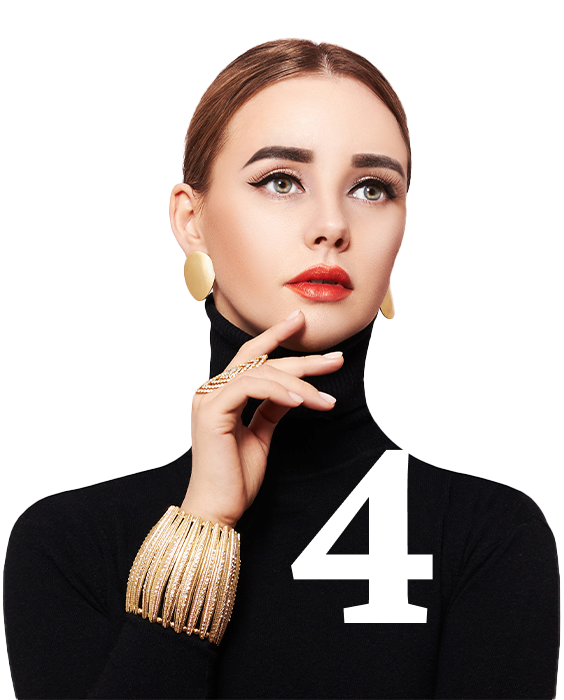
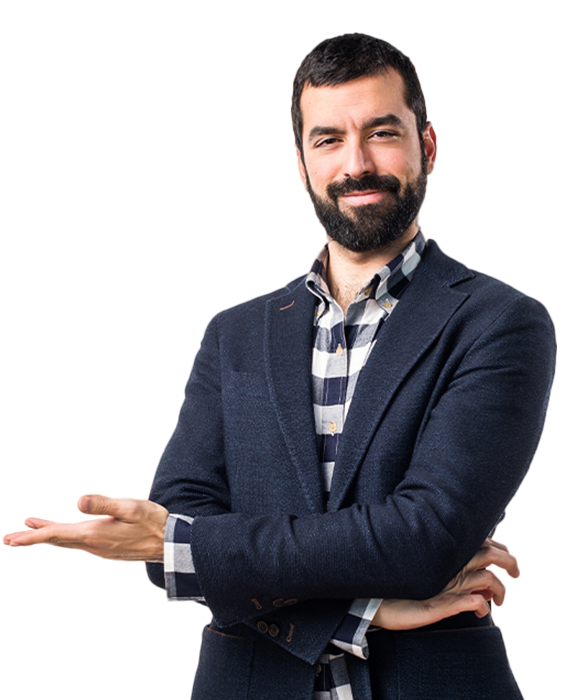
Adjust styles and photos Hero section

diff --git a/index.html b/index.html
@@ -11,87 +11,89 @@
 	<body>
 		
 		<header class="header">
-			<div class="header-content">
-				<a href="#" class="header-brand">
-					<div class="header-symbol">
-						<svg
-							xmlns="http://www.w3.org/2000/svg"
-							fill="none"
-							viewBox="0 0 58 56"
-						>
-							<path
-								d="M57.9 40.6a5.3 5.3 0 0 1-5.2 4.3H34.1c-.4 0-.5 0-.3.4l4.6 7.2c.2.2.4.3.7.3h3.6a1.2 1.2 0 0 1 0 2.3H15.2a1.2 1.2 0 0 1 0-2.3c1-.2 3.9.4 4.4-.5 1.4-2.4 3.3-4.9 4.6-7.3-6-.3-12.2 0-18.3-.1-3.3 0-4.8-1.1-5.9-4.3V9.1C.5 6.8 2.6 5 5 5h28c.8 0 1.3.5 1.3 1.2s-.5 1.2-1.4 1.2c-9.5.2-19.2-.4-28.7.2-1.2.4-1.8 1.4-1.9 2.7.2 10.1-.4 20.4.2 30.5.5 1.2 1.5 1.7 2.7 1.8h47c1.5 0 2.6-.4 3.1-1.8.7-6 0-12.2.3-18.3-.1-1.5 1.6-1.8 2.3-.7v19ZM35.7 52.7c-1.5-2.6-3.2-5-4.8-7.6-.6-.6-2.3 0-3.2-.3-.4 0-.6.2-.8.5-1.5 2.5-3.4 4.9-4.7 7.4h13.5ZM58 16.4c-.6 1.7-2 2.9-3.8 2.8h-6.4c-.4 0-.7.1-1 .4L43 23.2c-.8.7-2.1.2-2-1V20c0-.5-.2-.7-.8-.7-1.7 0-3-.7-3.7-2.2-.8-3.9 0-8-.3-12 0-2.6 2-4 4-4 18.3 1 18-4.8 17.6 15.4Zm-14.5 2.8.2.1c1-.9 1.9-2.5 3.4-2.5h7c1 0 1.7-.8 1.6-1.7V5.3c0-1.4-.4-1.9-1.9-1.9H43c-1.4.2-4.3-.7-4.3 1.5v10.5c.3 3.3 5.4-.8 4.7 3.8ZM28.8 36.7h-7.1c-.8 0-1.8-.2-1.8-1.1-.4-4.2.4-8.8 4.4-10.9.4-.2.5-.3.1-.7-3.8-3.3-1.7-10 3.3-10.8 6-1.3 10 6.8 5.5 10.8-.3.3-.3.4 0 .7 4 2.1 4.9 6.2 4.6 10.4 0 1.1-.4 1.6-1.6 1.6h-7.4Zm0-2.4h6c.4 0 .6-.1.6-.6l-.1-2.4c-1.9-8.5-14-6.3-13 2.3 0 .5.1.7.7.7h5.8Zm-4-14.8c0 5.2 8 5.2 8 0s-7.9-5.3-8 0Z"
-							/>
-						</svg>
-					</div>
-					<div class="header-logo">
-						<h1 class="header-title">Asesorias<br />Personalizadas</h1>
-						<h2 class="header-tagline">Professional Growth</h2>
-					</div>
-				</a>
-				<nav class="header-nav" id="menuMobile">
-					<ul class="header-ul">
-						<li class="header-li">
-							<a class="header-a" href="#features" title="Características"
-								>Características</a
+			<div class="wrapper">
+				<div class="header-content">
+					<a href="#" class="header-brand">
+						<div class="header-symbol">
+							<svg
+								xmlns="http://www.w3.org/2000/svg"
+								fill="none"
+								viewBox="0 0 58 56"
 							>
+								<path
+									d="M57.9 40.6a5.3 5.3 0 0 1-5.2 4.3H34.1c-.4 0-.5 0-.3.4l4.6 7.2c.2.2.4.3.7.3h3.6a1.2 1.2 0 0 1 0 2.3H15.2a1.2 1.2 0 0 1 0-2.3c1-.2 3.9.4 4.4-.5 1.4-2.4 3.3-4.9 4.6-7.3-6-.3-12.2 0-18.3-.1-3.3 0-4.8-1.1-5.9-4.3V9.1C.5 6.8 2.6 5 5 5h28c.8 0 1.3.5 1.3 1.2s-.5 1.2-1.4 1.2c-9.5.2-19.2-.4-28.7.2-1.2.4-1.8 1.4-1.9 2.7.2 10.1-.4 20.4.2 30.5.5 1.2 1.5 1.7 2.7 1.8h47c1.5 0 2.6-.4 3.1-1.8.7-6 0-12.2.3-18.3-.1-1.5 1.6-1.8 2.3-.7v19ZM35.7 52.7c-1.5-2.6-3.2-5-4.8-7.6-.6-.6-2.3 0-3.2-.3-.4 0-.6.2-.8.5-1.5 2.5-3.4 4.9-4.7 7.4h13.5ZM58 16.4c-.6 1.7-2 2.9-3.8 2.8h-6.4c-.4 0-.7.1-1 .4L43 23.2c-.8.7-2.1.2-2-1V20c0-.5-.2-.7-.8-.7-1.7 0-3-.7-3.7-2.2-.8-3.9 0-8-.3-12 0-2.6 2-4 4-4 18.3 1 18-4.8 17.6 15.4Zm-14.5 2.8.2.1c1-.9 1.9-2.5 3.4-2.5h7c1 0 1.7-.8 1.6-1.7V5.3c0-1.4-.4-1.9-1.9-1.9H43c-1.4.2-4.3-.7-4.3 1.5v10.5c.3 3.3 5.4-.8 4.7 3.8ZM28.8 36.7h-7.1c-.8 0-1.8-.2-1.8-1.1-.4-4.2.4-8.8 4.4-10.9.4-.2.5-.3.1-.7-3.8-3.3-1.7-10 3.3-10.8 6-1.3 10 6.8 5.5 10.8-.3.3-.3.4 0 .7 4 2.1 4.9 6.2 4.6 10.4 0 1.1-.4 1.6-1.6 1.6h-7.4Zm0-2.4h6c.4 0 .6-.1.6-.6l-.1-2.4c-1.9-8.5-14-6.3-13 2.3 0 .5.1.7.7.7h5.8Zm-4-14.8c0 5.2 8 5.2 8 0s-7.9-5.3-8 0Z"
+								/>
+							</svg>
+						</div>
+						<div class="header-logo">
+							<h1 class="header-title">Asesorias<br />Personalizadas</h1>
+							<h2 class="header-tagline">Professional Growth</h2>
+						</div>
+					</a>
+					<nav class="header-nav" id="menuMobile">
+						<ul class="header-ul">
+							<li class="header-li">
+								<a class="header-a" href="#features" title="Características"
+									>Características</a
+								>
+							</li>
+							<li class="header-li">
+								<a class="header-a" href="#advisories" title="Asesorias"
+									>Asesorías</a
+								>
+							</li>
+							<li class="header-li">
+								<a class="header-a" href="#about" title="Coca Sevilla"
+									>Coca Sevilla</a
+								>
+							</li>
+							<li class="header-li">
+								<a class="header-a" href="#testimonials" title="Testimoniales"
+									>Testimoniales</a
+								>
+							</li>
+						</ul>
+					</nav>
+					<ul class="header-side">
+						<li class="header-li__side">
+							<a class="header-link" href="#">
+								<svg
+									class="header-svg"
+									width="24"
+									height="24"
+									viewBox="0 0 24 24"
+									fill="none"
+									xmlns="http://www.w3.org/2000/svg"
+								>
+									<g clip-path="url(#clip0_423_516)">
+										<path
+											d="M20.4015 3.48907C19.3012 2.37859 17.9909 1.49819 16.547 0.899181C15.103 0.300173 13.5543 -0.00546641 11.991 7.39958e-05C5.4405 7.39958e-05 0.102 5.33707 0.096 11.8891C0.096 13.9876 0.645 16.0291 1.6815 17.8366L0 24.0001L6.306 22.3471C8.05051 23.2964 10.0049 23.7941 11.991 23.7946H11.997C18.549 23.7946 23.886 18.4576 23.892 11.8996C23.8935 10.3366 23.5857 8.78885 22.9864 7.34539C22.3871 5.90193 21.5096 4.59132 20.4015 3.48907ZM11.991 21.7816C10.2195 21.7822 8.48055 21.3055 6.957 20.4016L6.597 20.1856L2.856 21.1666L3.855 17.5171L3.621 17.1406C2.63071 15.5661 2.10697 13.7431 2.1105 11.8831C2.1105 6.44407 6.546 2.00707 11.997 2.00707C13.2956 2.00474 14.5818 2.25949 15.7815 2.75661C16.9812 3.25374 18.0706 3.98341 18.987 4.90357C19.9065 5.82015 20.6355 6.90971 21.1319 8.10942C21.6282 9.30913 21.8822 10.5952 21.879 11.8936C21.873 17.3521 17.4375 21.7816 11.991 21.7816ZM17.4135 14.3806C17.118 14.2321 15.6585 13.5136 15.384 13.4116C15.111 13.3141 14.9115 13.2631 14.7165 13.5601C14.517 13.8556 13.947 14.5291 13.776 14.7226C13.605 14.9221 13.428 14.9446 13.131 14.7976C12.8355 14.6476 11.877 14.3356 10.743 13.3201C9.858 12.5326 9.2655 11.5576 9.0885 11.2621C8.9175 10.9651 9.072 10.8061 9.2205 10.6576C9.351 10.5256 9.516 10.3096 9.6645 10.1386C9.8145 9.96757 9.864 9.84157 9.9615 9.64357C10.059 9.44257 10.0125 9.27157 9.939 9.12307C9.864 8.97457 9.2715 7.50907 9.021 6.91807C8.781 6.33457 8.5365 6.41557 8.3535 6.40807C8.1825 6.39757 7.983 6.39757 7.7835 6.39757C7.63285 6.40132 7.48459 6.43616 7.34804 6.49992C7.21149 6.56368 7.08959 6.65497 6.99 6.76807C6.717 7.06507 5.9535 7.78357 5.9535 9.24907C5.9535 10.7146 7.0185 12.1231 7.1685 12.3226C7.3155 12.5221 9.2595 15.5206 12.243 16.8106C12.948 17.1181 13.503 17.2996 13.9365 17.4376C14.649 17.6656 15.2925 17.6311 15.8055 17.5576C16.3755 17.4706 17.562 16.8376 17.8125 16.1431C18.0585 15.4471 18.0585 14.8531 17.9835 14.7286C17.91 14.6026 17.7105 14.5291 17.4135 14.3806Z"
+										/>
+									</g></svg
+								>Información
+							</a>
 						</li>
-						<li class="header-li">
-							<a class="header-a" href="#advisories" title="Asesorias"
-								>Asesorías</a
-							>
-						</li>
-						<li class="header-li">
-							<a class="header-a" href="#about" title="Coca Sevilla"
-								>Coca Sevilla</a
-							>
-						</li>
-						<li class="header-li">
-							<a class="header-a" href="#testimonials" title="Testimoniales"
-								>Testimoniales</a
-							>
+						<li class="header-li__side">
+							<button class="header-button" id="menuButton">
+								<svg
+									xmlns="http://www.w3.org/2000/svg"
+									width="24"
+									height="24"
+									viewBox="0 0 24 24"
+									fill="none"
+									stroke="currentColor"
+									stroke-width="2"
+									stroke-linecap="round"
+									stroke-linejoin="round"
+								>
+									<line x1="3" y1="12" x2="21" y2="12" />
+									<line x1="3" y1="6" x2="21" y2="6" />
+									<line x1="3" y1="18" x2="21" y2="18" />
+								</svg>
+							</button>
 						</li>
 					</ul>
-				</nav>
-				<ul class="header-side">
-					<li class="header-li__side">
-						<a class="header-link" href="#">
-							<svg
-								class="header-svg"
-								width="24"
-								height="24"
-								viewBox="0 0 24 24"
-								fill="none"
-								xmlns="http://www.w3.org/2000/svg"
-							>
-								<g clip-path="url(#clip0_423_516)">
-									<path
-										d="M20.4015 3.48907C19.3012 2.37859 17.9909 1.49819 16.547 0.899181C15.103 0.300173 13.5543 -0.00546641 11.991 7.39958e-05C5.4405 7.39958e-05 0.102 5.33707 0.096 11.8891C0.096 13.9876 0.645 16.0291 1.6815 17.8366L0 24.0001L6.306 22.3471C8.05051 23.2964 10.0049 23.7941 11.991 23.7946H11.997C18.549 23.7946 23.886 18.4576 23.892 11.8996C23.8935 10.3366 23.5857 8.78885 22.9864 7.34539C22.3871 5.90193 21.5096 4.59132 20.4015 3.48907ZM11.991 21.7816C10.2195 21.7822 8.48055 21.3055 6.957 20.4016L6.597 20.1856L2.856 21.1666L3.855 17.5171L3.621 17.1406C2.63071 15.5661 2.10697 13.7431 2.1105 11.8831C2.1105 6.44407 6.546 2.00707 11.997 2.00707C13.2956 2.00474 14.5818 2.25949 15.7815 2.75661C16.9812 3.25374 18.0706 3.98341 18.987 4.90357C19.9065 5.82015 20.6355 6.90971 21.1319 8.10942C21.6282 9.30913 21.8822 10.5952 21.879 11.8936C21.873 17.3521 17.4375 21.7816 11.991 21.7816ZM17.4135 14.3806C17.118 14.2321 15.6585 13.5136 15.384 13.4116C15.111 13.3141 14.9115 13.2631 14.7165 13.5601C14.517 13.8556 13.947 14.5291 13.776 14.7226C13.605 14.9221 13.428 14.9446 13.131 14.7976C12.8355 14.6476 11.877 14.3356 10.743 13.3201C9.858 12.5326 9.2655 11.5576 9.0885 11.2621C8.9175 10.9651 9.072 10.8061 9.2205 10.6576C9.351 10.5256 9.516 10.3096 9.6645 10.1386C9.8145 9.96757 9.864 9.84157 9.9615 9.64357C10.059 9.44257 10.0125 9.27157 9.939 9.12307C9.864 8.97457 9.2715 7.50907 9.021 6.91807C8.781 6.33457 8.5365 6.41557 8.3535 6.40807C8.1825 6.39757 7.983 6.39757 7.7835 6.39757C7.63285 6.40132 7.48459 6.43616 7.34804 6.49992C7.21149 6.56368 7.08959 6.65497 6.99 6.76807C6.717 7.06507 5.9535 7.78357 5.9535 9.24907C5.9535 10.7146 7.0185 12.1231 7.1685 12.3226C7.3155 12.5221 9.2595 15.5206 12.243 16.8106C12.948 17.1181 13.503 17.2996 13.9365 17.4376C14.649 17.6656 15.2925 17.6311 15.8055 17.5576C16.3755 17.4706 17.562 16.8376 17.8125 16.1431C18.0585 15.4471 18.0585 14.8531 17.9835 14.7286C17.91 14.6026 17.7105 14.5291 17.4135 14.3806Z"
-									/>
-								</g></svg
-							>Información
-						</a>
-					</li>
-					<li class="header-li__side">
-						<button class="header-button" id="menuButton">
-							<svg
-								xmlns="http://www.w3.org/2000/svg"
-								width="24"
-								height="24"
-								viewBox="0 0 24 24"
-								fill="none"
-								stroke="currentColor"
-								stroke-width="2"
-								stroke-linecap="round"
-								stroke-linejoin="round"
-							>
-								<line x1="3" y1="12" x2="21" y2="12" />
-								<line x1="3" y1="6" x2="21" y2="6" />
-								<line x1="3" y1="18" x2="21" y2="18" />
-							</svg>
-						</button>
-					</li>
-				</ul>
+				</div>
 			</div>
 		</header>
 
@@ -99,7 +101,7 @@
 			<section class="hero">
 				<div class="wrapper">
 					<div class="hero-content">
-						<div class="hero-info">
+						<!-- <div class="hero-info">
 							<span class="hero-tag">Asesorías Online</span>
 							<div class="hero-titles">
 								<h2 class="hero-title active">
@@ -124,7 +126,7 @@
 								cualquier parte del mundo.
 							</p>
 							<a class="hero-link" href="#advisories"> Conoce más </a>
-						</div>
+						</div> -->
 						<div class="hero-images">
 							<img class="hero-image active" src="./assets/hero/hero-1.png" alt="Fotografía de Mujer" loading="lazy"/>
 							<img class="hero-image" src="./assets/hero/hero-2.png" alt="Fotografía de Mujer" loading="lazy"/>

diff --git a/js/app.js b/js/app.js
@@ -5,13 +5,10 @@ const menuMobile = document.getElementById('menuMobile');
 
 menuButton.addEventListener('click', () => { menuMobile.classList.toggle('menu-show') });
 
-document.querySelectorAll('.header-a').forEach( (n) => n.addEventListener('click', () => { menuMobile?.classList.remove('menu-show') }) );
-
- */
-
+document.querySelectorAll('.header-a').forEach( (n) => n.addEventListener('click', () => { menuMobile?.classList.remove('menu-show') }) ); */
 var acc = document.getElementsByClassName('faqs-question');
-for (var i = 0; i < acc.length; i++) {
-  acc[i].addEventListener('click', function () {
+for (var _i = 0; _i < acc.length; _i++) {
+  acc[_i].addEventListener('click', function () {
     this.classList.toggle('faqs-question__active');
     this.lastElementChild.classList.toggle('faqs-icon__active');
     var panel = this.nextElementSibling;
@@ -22,25 +19,18 @@ for (var i = 0; i < acc.length; i++) {
     }
   });
 }
-
-
-const heroTitles = document.querySelectorAll('.hero-title');
-const heroImages = document.querySelectorAll('.hero-image');
-
-
-
+var heroTitles = document.querySelectorAll('.hero-title');
+var heroImages = document.querySelectorAll('.hero-image');
 setInterval(function () {
-	heroTitles[i].classList.remove('active');
-	heroImages[i].classList.remove('active');
-	i++;
-
-	if (i >= heroTitles.length) {
-		i = 0;
-	}
-	if (i >= heroImages.length) {
-		i = 0;
-	}
-
-	heroTitles[i].classList.add('active');
-	heroImages[i].classList.add('active');
+  heroTitles[i].classList.remove('active');
+  heroImages[i].classList.remove('active');
+  i++;
+  if (i >= heroTitles.length) {
+    i = 0;
+  }
+  if (i >= heroImages.length) {
+    i = 0;
+  }
+  heroTitles[i].classList.add('active');
+  heroImages[i].classList.add('active');
 }, 3000);

diff --git a/css/app.css b/css/app.css
@@ -194,7 +194,7 @@ body {
           box-shadow: 0 0 1em rgba(0, 0, 0, 0.1);
 }
 .header-content {
-  padding: 1em 2em;
+  padding: 1em;
   display: -webkit-box;
   display: -ms-flexbox;
   display: flex;
@@ -208,11 +208,6 @@ body {
   -webkit-box-align: center;
       -ms-flex-align: center;
           align-items: center;
-}
-@media screen and (max-width: 1920px) {
-  .header-content {
-    font-size: 1.2rem;
-  }
 }
 @media screen and (max-width: 1440px) {
   .header-content {
@@ -610,10 +605,11 @@ body {
 .hero-image {
   position: absolute;
   height: 100%;
+  right: 48px;
   -o-object-fit: contain;
      object-fit: contain;
-  -o-object-position: center top;
-     object-position: center top;
+  -o-object-position: center center;
+     object-position: center center;
   opacity: 0;
   -webkit-transition: opacity 1s ease;
   transition: opacity 1s ease;

diff --git a/ts/app.ts b/ts/app.ts
@@ -22,3 +22,24 @@ for (let i = 0; i < acc.length; i++) {
 		}
 	});
 }
+
+const heroTitles = document.querySelectorAll('.hero-title');
+const heroImages = document.querySelectorAll('.hero-image');
+
+
+
+setInterval(function () {
+	heroTitles[i].classList.remove('active');
+	heroImages[i].classList.remove('active');
+	i++;
+
+	if (i >= heroTitles.length) {
+		i = 0;
+	}
+	if (i >= heroImages.length) {
+		i = 0;
+	}
+
+	heroTitles[i].classList.add('active');
+	heroImages[i].classList.add('active');
+}, 3000);

diff --git a/scss/components/_header.scss b/scss/components/_header.scss
@@ -9,10 +9,10 @@
 	box-shadow: 0 0 1em rgba(0, 0, 0, 0.1);
 
 	&-content {
-		padding: 1em 2em;
+		padding: 1em;
 		@include flex(row, nowrap, space-between, center);
 
-		@include media(1920px) 	{font-size: 1.2rem;	}		
+
 		@include media(1440px) 	{font-size: 1rem;		}
 		@include media(1024px) 	{font-size: 0.875rem;}
 		@include media(900px) 	{font-size: 0.756rem;}		

diff --git a/scss/components/_hero.scss b/scss/components/_hero.scss
@@ -110,8 +110,9 @@
 	&-image {
 		position: absolute;
 		height: 100%;
+		right: 48px;
 		object-fit:contain;
-		object-position: center top;
+		object-position: center center;
 		opacity: 0;
 		transition: opacity 1s ease;
 
